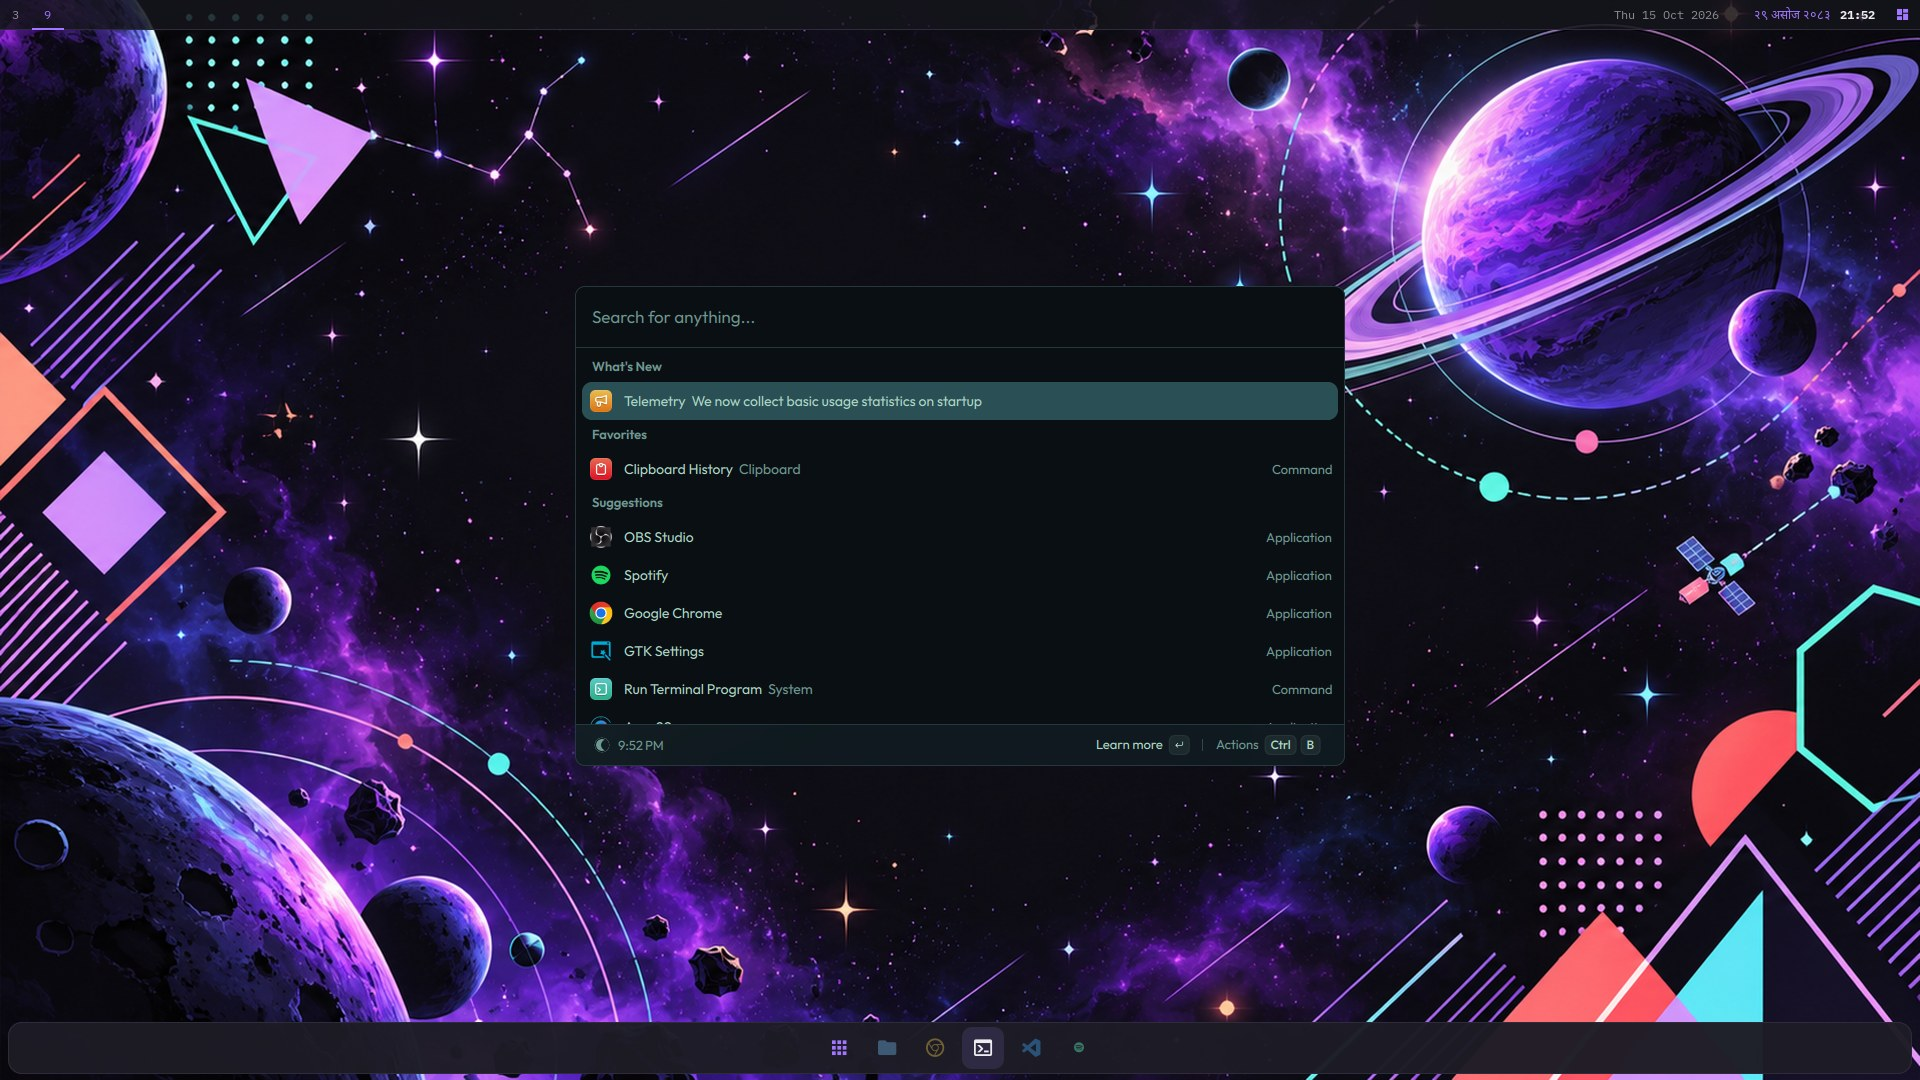
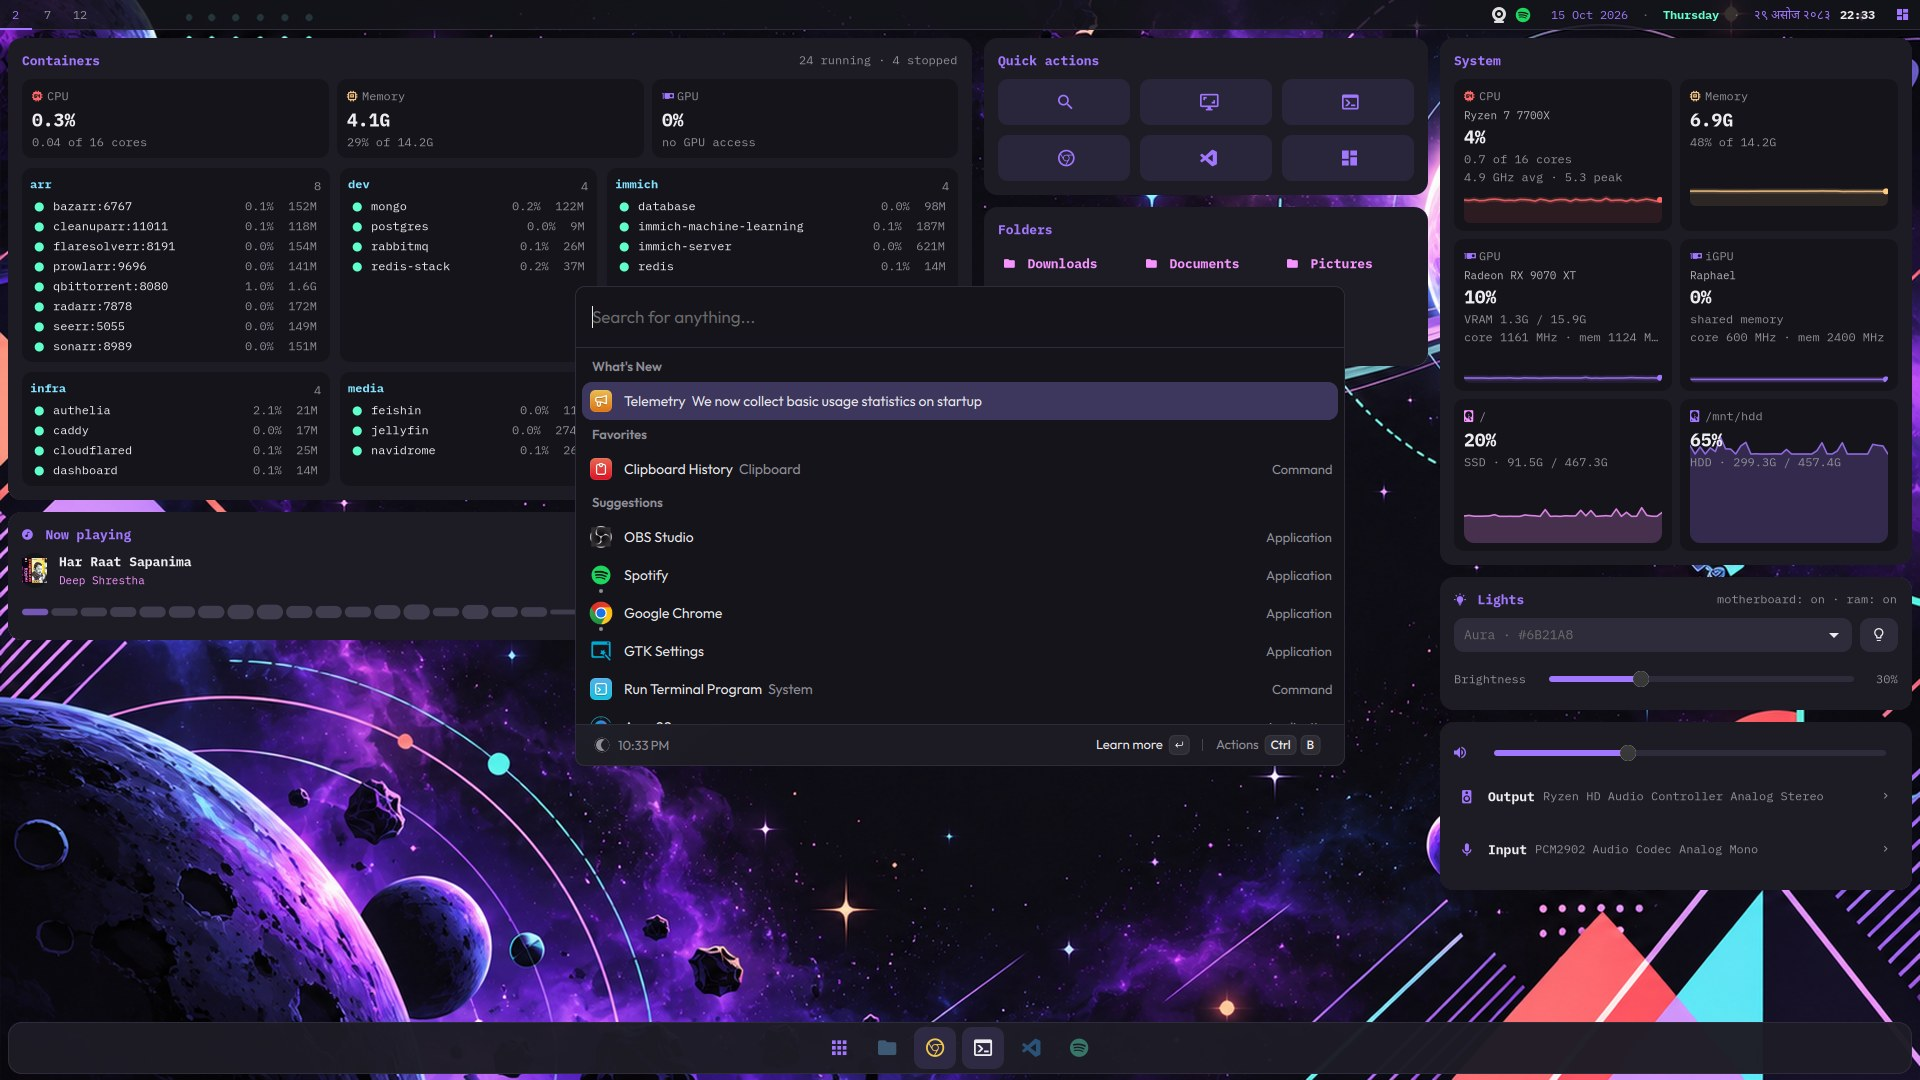
docs: wallpapers README, full-width screenshots, current keys
Wallpapers get their own README (previews, how to switch, how they were
made); the main README links to it and swaps the screenshot table for
full-width sections (home screen, side panel, calendar, launcher, terminal,
power menu, lock screen). New screenshots for the home screen, side panel,
calendar, purple launcher and lock screen (Wi-Fi name, avatar and name
redacted). Key tables brought up to date; install.sh skips README files
under Pictures.

diff --git a/README.md b/README.md
@@ -4,14 +4,47 @@ Ubuntu 26.04 · GNOME 50 + Hyprland 0.53 · **Aura Dark**
 
 ![Desktop](docs/screenshots/desktop.jpg)
 
-| | |
-|---|---|
-| ![Side panel](docs/screenshots/panel.jpg) | ![Launcher](docs/screenshots/launcher.jpg) |
-| **aura-panel**: power, monitor, network, Bluetooth, notifications | **vicinae** launcher (Alt+Space) |
-| ![Neovim in Ghostty](docs/screenshots/terminal.jpg) | ![Power menu](docs/screenshots/powermenu.jpg) |
-| **Ghostty** + Neovim (Aura port), titlebar traffic lights | **wlogout** power menu (Super+Esc) |
-| ![Lock screen](docs/screenshots/lockscreen.jpg) | |
-| **hyprlock**: Aura card, English + Nepali (BS) date | |
+The home screen: aura-panel's cards on the desktop layer (they sit under windows), the aura-bar dock, and the top bar with the English · weekday · Nepali date.
+
+## Side panel
+
+**aura-panel** (Super+D): power with confirmation, primary monitor, Ethernet / Wi-Fi / Bluetooth,
+notification history and Do Not Disturb. The same panel's home-screen cards (Docker stacks, now playing
+with a seekable spectrum bar, live CPU / memory / GPU / disk graphs, lights, sound) sit on the desktop.
+
+![Side panel](docs/screenshots/panel.jpg)
+
+## Calendar
+
+Click the top-bar clock: a month view in **Gregorian** or **नेपाली** (Bikram Sambat) with the other
+calendar's day under each date, previous/next month, Today, and Saturdays (Nepal's weekly holiday) in red.
+
+![Calendar](docs/screenshots/calendar.jpg)
+
+## Launcher
+
+**vicinae** (Alt+Space) in the Aura theme; Super+Alt+V shows clipboard history in the same window.
+
+![Launcher](docs/screenshots/launcher.jpg)
+
+## Terminal
+
+**Ghostty** with Neovim (the official Aura port), and macOS-style traffic-light titlebars from hyprbars.
+
+![Neovim in Ghostty](docs/screenshots/terminal.jpg)
+
+## Power menu
+
+**wlogout** (Super+Esc): a 2 × 2 grid of Aura cards over the blurred wallpaper.
+
+![Power menu](docs/screenshots/powermenu.jpg)
+
+## Lock screen
+
+**hyprlock**: one Aura card with the time, the English · weekday · Nepali (BS) date, and an avatar
+from `~/.face` (`.config/hypr/scripts/set-avatar.sh <picture>`), falling back to an initial.
+
+![Lock screen](docs/screenshots/lockscreen.jpg)
 
 ## Fresh setup
 
@@ -32,7 +65,7 @@ Run `./install.sh --dry-run` first to see what it will do.
 
 - **New machine?** Add `hosts/$(hostname)/` first (monitors, GPU order). See `.claude/skills/new-machine`.
 - **SSH:** `.ssh/config` is gitignored. On first install it's seeded from `.ssh/config.example`, so fill in your own hosts.
-- **Wallpapers** live in `Pictures/wallpapers/` and are linked to `~/Pictures/wallpapers/`.
+- **Wallpapers** live in `Pictures/wallpapers/` and are linked to `~/Pictures/wallpapers/`. See the [wallpapers README](Pictures/wallpapers/README.md) for previews and how to switch them.
 - Nothing hardcodes a username or home path, so it works under any account.
 
 ## What's here
@@ -55,13 +88,21 @@ Run `./install.sh --dry-run` first to see what it will do.
 | Super+Enter | Ghostty |
 | Super+Space | Launcher (fuzzel) |
 | Alt+Space | vicinae |
-| Super+D / Super+N | Side panel / notifications |
-| Super+Alt+V | Clipboard history |
+| Super+D / Super+N | Side panel |
+| Super+Alt+V | Clipboard history (in vicinae) |
+| Super+1…5 | Go to workspace |
+| Super+Shift+1…5 | Move window to workspace |
+| Super+Shift+D | New workspace on this monitor |
+| Super+Shift+← / → | Previous / next workspace on this monitor |
+| Ctrl+Shift+M | Hide / show every window on this screen |
+| Super+Shift+M | Bring back the last minimized window |
 | Super+Shift+S / Print | Area screenshot to clipboard |
 | Shift+Print | Area screenshot to ~/Pictures/Screenshots |
 | Super+L | Lock |
-| Super+Q | Close window |
+| Super+Q | Close window (Spotify goes to the tray) |
 | Super+Shift+E | Power menu (also Super+Esc) |
+
+Titlebar buttons: red closes, yellow minimizes, green gives the window its own workspace (press again to return).
 
 **Ghostty**
 | Key | Action |
@@ -69,10 +110,11 @@ Run `./install.sh --dry-run` first to see what it will do.
 | Ctrl+T | New tab |
 | Ctrl+Shift+W | Close tab |
 | Ctrl+1…8 / Ctrl+9 | Go to tab / last tab |
-| Ctrl+Shift+← / → | Previous / next tab |
-| Ctrl+Shift+D / Ctrl+Alt+D | Split right / down |
+| Ctrl+Tab / Ctrl+Shift+Tab, Ctrl+Shift+← | Next / previous tab |
+| Ctrl+Shift+→ / Ctrl+Shift+↓ | Split right / down |
 | Ctrl+Alt+Arrows | Move between splits |
 | Ctrl+Shift+Enter | Zoom split |
+| Ctrl+V | Paste |
 | F11 | Fullscreen |
 
 Design spec: [docs/aura-tokens.md](docs/aura-tokens.md). Agent guide: [AGENTS.md](AGENTS.md). Credits: [docs/THIRD_PARTY.md](docs/THIRD_PARTY.md).

diff --git a/Pictures/wallpapers/README.md b/Pictures/wallpapers/README.md
@@ -1,0 +1,50 @@
+# Wallpapers
+
+Four Aura space wallpapers, 3840 × 2160. Each keeps the middle of the screen dark and calm, with the
+detail pushed out to the edges, so windows and the home-screen panel sit on a quiet background.
+
+`install.sh` links this folder to `~/Pictures/wallpapers/`.
+
+## aura-space-1 · Purple nebula
+
+The desktop default. A ringed purple planet in the upper right, a purple nebula sweeping along the
+edges, mint and pink orbit accents.
+
+![aura-space-1](aura-space-1.png)
+
+## aura-space-2 · Mint orbit
+
+Mint dominant: a crescent planet in the upper left with thin orbit rings, and a teal nebula along the
+bottom edge. Also the lock screen's background before the card redesign.
+
+![aura-space-2](aura-space-2.png)
+
+## aura-space-3 · Sunset rocket
+
+Orange and pink: small planets around the edges and a rocket trailing a curved orange/pink arc.
+
+![aura-space-3](aura-space-3.png)
+
+## aura-space-4 · Minimal
+
+Almost all dark, with one small purple planet with a mint ring and a faint violet haze. The quietest
+of the four.
+
+![aura-space-4](aura-space-4.png)
+
+## Using them
+
+| Where | File | Setting |
+|---|---|---|
+| Desktop | `.config/hypr/hyprpaper.conf` | `path = ~/Pictures/wallpapers/aura-space-1.png` |
+| Lock screen (blurred behind the card) | `.config/hypr/hyprlock.conf` | `path` in the `background` block |
+
+hyprpaper picks up a changed `hyprpaper.conf` at the next login, or run `systemctl --user restart hyprpaper`.
+
+## How they were made
+
+AI-generated with an image-generation tool from the prompts in
+[`aura-space-prompts.txt`](aura-space-prompts.txt): flat vector art in the Memphis style, using the
+Aura palette (`#15141b` background; `#a277ff`, `#61ffca`, `#ffca85`, `#f694ff`, `#82e2ff`,
+`#ff6767` accents), no text, with the centre 45% left empty. The tool rendered them at 1672 × 941,
+and they were upscaled to 3840 × 2160.
